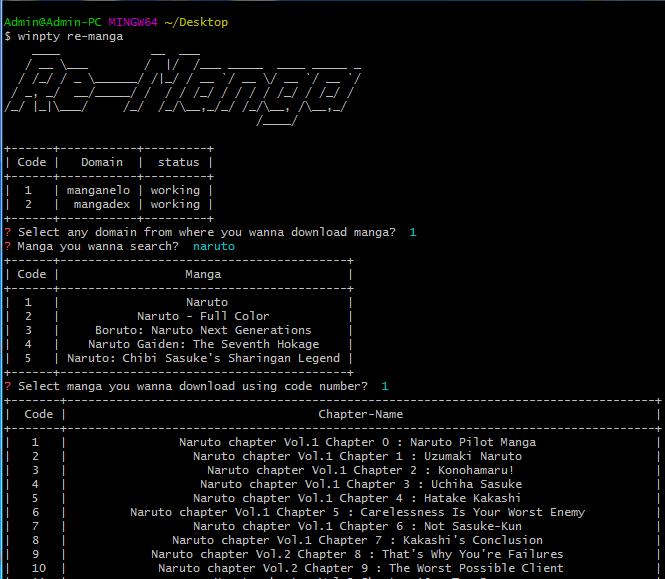
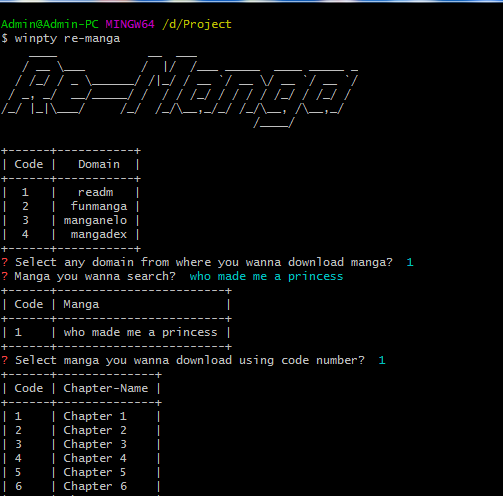
0.2.3

Changed region(s): [[0.0, 0.0, 1.0, 1.0], [0.8052, 0.5141, 0.835, 0.5444]]

diff --git a/remanga/readm/downloader.py b/remanga/readm/downloader.py
@@ -1,0 +1,60 @@
+import requests
+import os
+from bs4 import BeautifulSoup
+from PIL import Image
+import shutil
+import time
+import re
+import threading
+import sys
+
+def progress():
+	global x
+	i=0
+	animation = "|/-\\"
+	while x==0:
+		sys.stdout.write("\rDowloading... %s" %animation[i % len(animation)])
+		sys.stdout.flush()
+		i+=1
+		time.sleep(0.5)
+
+def download(url,directory,filename):
+	global x
+	temp_fold=os.getcwd()+"/temp/"
+	temp_fold=os.path.normpath(temp_fold)
+	if not os.path.exists(temp_fold):
+		os.makedirs(temp_fold)
+	r=requests.get(url).text
+	soup=BeautifulSoup(r,'html.parser').find_all('img',attrs={'class':'img-responsive scroll-down'})
+	k=1
+	files=[]
+	x=0
+	t=threading.Thread(target=progress)
+	t.start()
+	for i in soup:
+		down_url="https://readm.org"+i.get('src')
+		if "\\" in temp_fold:
+			imgpath=temp_fold+"\\"+str(k)+".jpg"
+		else:
+			imgpath=temp_fold+"/"+str(k)+".jpg"
+		files.append(imgpath)
+		r=requests.get(down_url,allow_redirects=True)
+		open(imgpath, 'wb').write(r.content)
+		k=k+1
+	x=1
+	print("\nAlmost Done...Finishing the process")
+	for i in ['/','\\','*','<','>','|','?',':','"']:
+		filename=filename.replace(i," ")
+	if "\\" in temp_fold:
+		filename="\\"+filename
+	else:
+		filename="/"+filename
+	image=[]
+	for i in range(len(files)):
+		image.append(Image.open(files[i]))
+	if len(image)!=1:
+		image[0].save(directory+filename+".pdf", "PDF" ,resolution=100.0, save_all=True, append_images=image[1:])
+	else:
+		image[0].save(directory+filename+".pdf", "PDF" ,resolution=100.0, save_all=True, append_images=image)
+	shutil.rmtree(temp_fold)
+	print(filename[1:]+" Downloaded Successfully")

diff --git a/remanga/cli.py b/remanga/cli.py
@@ -15,18 +15,22 @@ from configparser import ConfigParser
 from . import mangadex
 from . import manganelo
 from . import funmanga
+from . import readm
 from .mangadex import (data,chapter,downloader)
 from .manganelo import (data,chapter,downloader)
 from .funmanga import (data,chapter,downloader)
+from .readm import (data,chapter,downloader)
 
-server={1:funmanga,2:manganelo,3:mangadex}
+server={1:readm,2:funmanga,3:manganelo,4:mangadex}
 
 def url_validate(url):
 	global service
 	if "mangadex" in url:
-		service=3
+		service=4
 	elif "manganelo" in url:
-		service=2
+		service=3
+	elif "readm" in url:
+		service=1
 	else:
 		exit("invalid url\
 			 Supported Websites are 1: Mangadex.tv\n2. Manganelo.tv\n")
@@ -95,25 +99,11 @@ def parse():
 
 def serv():
 	global service
-	t=PrettyTable(['Code','Domain','status'])
-	try:
-		r=requests.get("https://funmanga.com")
-		work="working"
-	except:
-		work="not working"
-	t.add_row([1,'funmanga',work])
-	try:
-		r=requests.get("https://manganelo.tv")
-		work="working"
-	except:
-		work="not working"
-	t.add_row([2,'manganelo',work])
-	try:
-		r=requests.get("https://mangadex.tv")
-		work="working"
-	except:
-		work="not working"
-	t.add_row([3,'mangadex',work])
+	t=PrettyTable(['Code','Domain'])
+	t.add_row([1,'readm'])
+	t.add_row([2,'funmanga'])
+	t.add_row([3,'manganelo'])
+	t.add_row([4,'mangadex'])
 	print(t)
 	question=[
 	{

diff --git a/remanga/readm/data.py b/remanga/readm/data.py
@@ -1,0 +1,45 @@
+import requests
+from bs4 import BeautifulSoup
+import re
+from prettytable import PrettyTable
+dic={}
+def issub(string1, string2, m, n):
+    # Base Cases
+    if m == 0:
+        return True
+    if n == 0:
+        return False
+ 
+    # If last characters of two
+    # strings are matching
+    if string1[m-1] == string2[n-1]:
+        return issub(string1, string2, m-1, n-1)
+ 
+    # If last characters are not matching
+    return issub(string1, string2, m, n-1)
+
+
+def get_data(anime):
+	url="https://readm.org/manga-list/"+anime[0]
+	r=requests.get(url).text
+	soup=BeautifulSoup(r,'html.parser').find_all('div',attrs={'class':'poster poster-xs'})
+	"""k=1
+				t=PrettyTable(['Code','Manga'])
+				for i in soup:
+					x=str(i.text).lower()
+					if issub(anime,x,len(anime),len(x)):
+						dic[k]=i.get('href')
+						t.add_row([k,x])
+						k=k+1
+				"""
+	k,t=1,PrettyTable(['Code','Manga'])
+	for i in soup:
+		zz=BeautifulSoup(str(i),"html.parser")
+		l="https://readm.org"+zz.find('a').get("href")
+		x=str(zz.find('h2').text).lower()
+		if issub(anime,x,len(anime),len(x)):
+			dic[k]=l
+			t.add_row([k,x])
+			k=k+1
+	t.align='l'
+	print(t)

diff --git a/remanga/readm/chapter.py b/remanga/readm/chapter.py
@@ -1,0 +1,40 @@
+import requests
+from bs4 import BeautifulSoup as bs
+from prettytable import PrettyTable
+
+chapterlink={}
+chaptername={}
+
+def get_chapter(url):
+	r=requests.get(url).text
+	name,link=[],[]
+	soup=bs(r,'html.parser').find_all('h6',attrs={'class':'truncate'})
+	t=PrettyTable(['Code','Chapter-Name'])
+	for i in soup:
+		s=bs(str(i),"html.parser").find("a")
+		k=1
+		name.append(s.text)
+		link.append("https://readm.org"+s.get("href"))
+	name=name[::-1]
+	link=link[::-1]
+	for i in range(len(name)):
+		chapterlink[i+1]=link[i]
+		chaptername[i+1]=name[i]
+		t.add_row([i+1,name[i]])
+	t.align='l'
+	print(t)
+
+	"""t=PrettyTable(['Code','Chapter-Name'])
+				name,link=[],[]
+				k=1
+				for i in soup:
+					name.append(bs(str(i),'html.parser').find('span',attrs={'class':'val'}).text)
+					link.append(i.get('href'))
+				name=name[::-1]
+				link=link[::-1]
+				for i in range(len(name)):
+					chapterlink[i+1]=link[i]
+					chaptername[i+1]=name[i]
+					t.add_row([i+1,name[i]])
+				t.align='l'
+				print(t)"""

diff --git a/setup.py b/setup.py
@@ -7,13 +7,13 @@ with open('README.md', 'r') as f:
 
 setup(
     name='re-manga',
-    version='0.2.2',
+    version='0.2.3',
     author='Varun Panchal',
     author_email='varunpanchal283@gmail.com',
     description='Get your favourite manga in pdf',
     packages=find_packages(),
     url='https://github.com/varunpanchal283/re-manga',
-    keywords=['anime', 'manga' ,'downloader', 'manga bulk downloader', 'download', 'mangadex','manganelo','funmanga'],
+    keywords=['anime', 'manga' ,'downloader', 'manga bulk downloader', 'download', 'mangadex','manganelo','funmanga','readm'],
 
     long_description=long_description,
     long_description_content_type='text/markdown',
@@ -24,7 +24,8 @@ setup(
 	        'PyInquirer==1.0.3',
 	        'prettytable==2.1.0',
 	        'click==7.1.2',
-            'pyfiglet==0.8.post1'
+            'pyfiglet==0.8.post1',
+            'Pillow==8.0.1'
 	],
 
 	entry_points={"console_scripts": ["re-manga=remanga.__main__:main"]},

diff --git a/remanga/__init__.py b/remanga/__init__.py
@@ -1,8 +1,12 @@
 from .mangadex import (data, chapter, downloader)
 from .manganelo import (data, chapter, downloader)
 from .funmanga import (data, chapter, downloader)
+from .readm import (data, chapter, downloader)
 from . import cli
 __all__ = [
+	'readm.data',
+	'readm.chapter',
+	'readm.downloader',
 	'funmanga.data',
 	'funmanga.chapter',
 	'funmanga.downloader',

diff --git a/README.md b/README.md
@@ -26,6 +26,7 @@
 
 ## Provider
 
+- readm
 - funmanga
 - mangadex
 - manganelo
